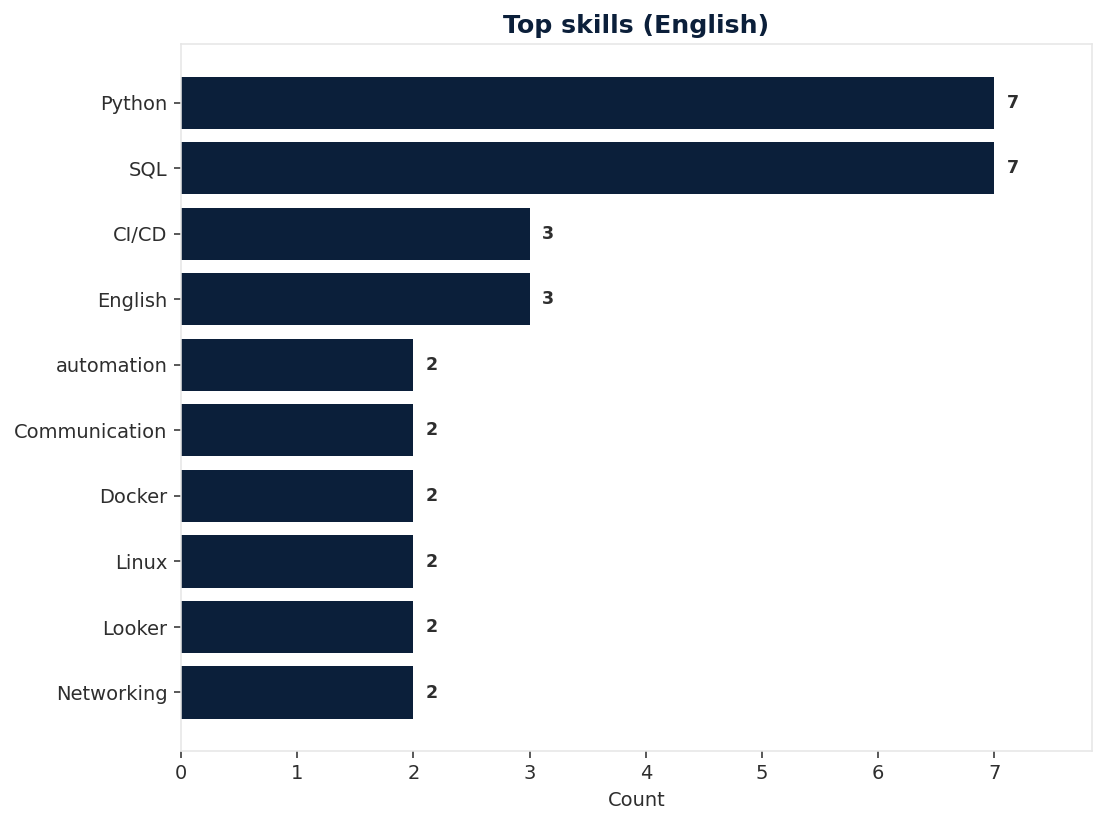
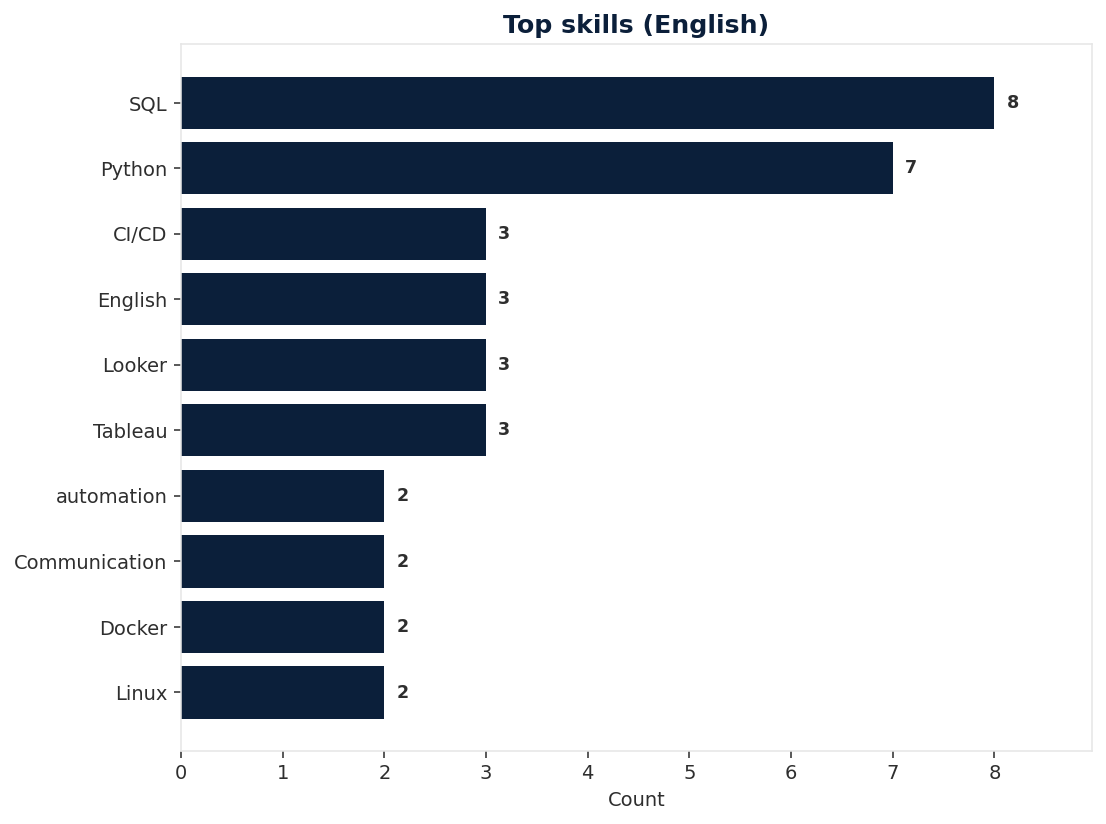
Updated analysis.

diff --git a/docs/prediction/model_results.md b/docs/prediction/model_results.md
@@ -2,14 +2,14 @@
 
 Auto-generated when you run **Prediction** in the web UI or CLI. Rows within each model are ordered by predicted value (highest first).
 
-- **Generated at:** 2026-07-27T23:55:00
-- **Run id:** 99
+- **Generated at:** 2026-07-28T02:06:44
+- **Run id:** 3
 - **Status:** completed
 - **Training data source:** Fake / synthetic series (`data/fake/` CSVs)
-- **Training window (months):** 12
+- **Training window (months):** 24
 - **Horizons:** 3
-- **Models:** baseline, rf
-- **Elapsed (seconds):** 1.531
+- **Models:** baseline, prophet, sarima, arima, rf, hgb
+- **Elapsed (seconds):** 1207.827
 
 ## Training data
 
@@ -19,37 +19,301 @@ Models were trained on generated job-market aggregates (not live PostgreSQL post
 
 | Model | Seconds |
 |-------|---------|
-| `baseline` | 0.023 |
-| `rf` | 1.428 |
+| `baseline` | 0.234 |
+| `prophet` | 1173.523 |
+| `sarima` | 8.264 |
+| `arima` | 4.046 |
+| `rf` | 13.549 |
+| `hgb` | 7.996 |
 
 ## Top roles & top skills (historical shortlist)
 
 These lists are **not** the models' forecast of future popularity. Before forecasting, roles and skills are ranked by **historical posting volume** inside the training window (highest count first); the top K (default 15) become the forecast targets. Every selected model then runs on that same shortlist. Order below = historical volume, not predicted rank.
 
-- **Top roles (historical):** Data Analyst, Data Engineer, ML Engineer
-- **Top skills (historical):** SQL, Python, AWS
+- **Top roles (historical):** Data Analyst, Data Engineer, Data Scientist, ML Engineer, Analytics Engineer, AI Engineer, BI Developer, MLOps Engineer, Research Scientist, Product Analyst, Backend Engineer, Platform Engineer, Data Platform Engineer, NLP Engineer, Computer Vision Engineer
+- **Top skills (historical):** Python, SQL, Spark, Airflow, dbt, Tableau, Power BI, AWS, GCP, Azure, Kubernetes, TensorFlow, Docker, PyTorch, scikit-learn
+
+## Model: `arima`
+
+| Type | Target | Horizon | Period | Value |
+|------|--------|---------|--------|-------|
+| salary_role | NLP Engineer | 3 | 2026-10-01 | 5684 |
+| salary_role | AI Engineer | 3 | 2026-10-01 | 5672 |
+| salary_role | Computer Vision Engineer | 3 | 2026-10-01 | 5543 |
+| salary_role | ML Engineer | 3 | 2026-10-01 | 5447 |
+| salary_role | MLOps Engineer | 3 | 2026-10-01 | 5373 |
+| salary_role | Data Platform Engineer | 3 | 2026-10-01 | 5320 |
+| salary_role | Data Scientist | 3 | 2026-10-01 | 5200 |
+| salary_role | Research Scientist | 3 | 2026-10-01 | 5164 |
+| salary_role | Platform Engineer | 3 | 2026-10-01 | 5018 |
+| salary_role | Backend Engineer | 3 | 2026-10-01 | 4839 |
+| salary_role | Data Engineer | 3 | 2026-10-01 | 4773 |
+| salary_role | Analytics Engineer | 3 | 2026-10-01 | 4393 |
+| salary_role | BI Developer | 3 | 2026-10-01 | 4107 |
+| salary_role | Product Analyst | 3 | 2026-10-01 | 4061 |
+| salary_role | Data Analyst | 3 | 2026-10-01 | 3862 |
+| skill | Spark | 3 | 2026-10-01 | 125.33 |
+| skill | dbt | 3 | 2026-10-01 | 118.56 |
+| skill | AWS | 3 | 2026-10-01 | 114.76 |
+| skill | Power BI | 3 | 2026-10-01 | 114.21 |
+| skill | Tableau | 3 | 2026-10-01 | 111.80 |
+| skill | SQL | 3 | 2026-10-01 | 111.20 |
+| skill | Python | 3 | 2026-10-01 | 111.19 |
+| skill | GCP | 3 | 2026-10-01 | 111.03 |
+| skill | Airflow | 3 | 2026-10-01 | 102.60 |
+| skill | Docker | 3 | 2026-10-01 | 98.95 |
+| skill | Azure | 3 | 2026-10-01 | 98.49 |
+| skill | Kubernetes | 3 | 2026-10-01 | 96.96 |
+| skill | scikit-learn | 3 | 2026-10-01 | 95.00 |
+| skill | TensorFlow | 3 | 2026-10-01 | 80.38 |
+| skill | PyTorch | 3 | 2026-10-01 | 59.87 |
+| role | Data Analyst | 3 | 2026-10-01 | 37.58 |
+| role | Data Engineer | 3 | 2026-10-01 | 32.58 |
+| role | Data Scientist | 3 | 2026-10-01 | 30.69 |
+| role | ML Engineer | 3 | 2026-10-01 | 25.36 |
+| role | Analytics Engineer | 3 | 2026-10-01 | 22.27 |
+| role | AI Engineer | 3 | 2026-10-01 | 20.39 |
+| role | BI Developer | 3 | 2026-10-01 | 19.31 |
+| role | MLOps Engineer | 3 | 2026-10-01 | 15.02 |
+| role | Research Scientist | 3 | 2026-10-01 | 13.59 |
+| role | Product Analyst | 3 | 2026-10-01 | 12.42 |
+| role | Backend Engineer | 3 | 2026-10-01 | 11.34 |
+| role | Platform Engineer | 3 | 2026-10-01 | 10.26 |
+| role | Data Platform Engineer | 3 | 2026-10-01 | 9.86 |
+| role | NLP Engineer | 3 | 2026-10-01 | 8.55 |
+| role | Computer Vision Engineer | 3 | 2026-10-01 | 6.74 |
 
 ## Model: `baseline`
 
 | Type | Target | Horizon | Period | Value |
 |------|--------|---------|--------|-------|
-| baseline_skill | Python | 0 | — | 5 |
-| baseline_skill | SQL | 0 | — | 4 |
-| baseline_skill | AWS | 0 | — | 2 |
-| baseline_role | Data Analyst | 0 | — | 1 |
-| baseline_role | Data Engineer | 0 | — | 1 |
-| baseline_role | ML Engineer | 0 | — | 1 |
+| baseline_skill | SQL | 0 | — | 118 |
+| baseline_skill | Spark | 0 | — | 110 |
+| baseline_skill | Airflow | 0 | — | 107 |
+| baseline_skill | dbt | 0 | — | 106 |
+| baseline_skill | Python | 0 | — | 103 |
+| baseline_skill | AWS | 0 | — | 95 |
+| baseline_skill | GCP | 0 | — | 95 |
+| baseline_skill | Tableau | 0 | — | 90 |
+| baseline_skill | Azure | 0 | — | 87 |
+| baseline_skill | Power BI | 0 | — | 87 |
+| baseline_skill | Docker | 0 | — | 81 |
+| baseline_skill | Kubernetes | 0 | — | 80 |
+| baseline_skill | TensorFlow | 0 | — | 74 |
+| baseline_skill | PyTorch | 0 | — | 71 |
+| baseline_skill | scikit-learn | 0 | — | 69 |
+| baseline_role | Data Engineer | 0 | — | 30 |
+| baseline_role | Data Scientist | 0 | — | 29 |
+| baseline_role | Data Analyst | 0 | — | 26 |
+| baseline_role | Backend Engineer | 0 | — | 20 |
+| baseline_role | ML Engineer | 0 | — | 17 |
+| baseline_role | BI Developer | 0 | — | 16 |
+| baseline_role | AI Engineer | 0 | — | 14 |
+| baseline_role | Analytics Engineer | 0 | — | 13 |
+| baseline_role | Research Scientist | 0 | — | 12 |
+| baseline_role | MLOps Engineer | 0 | — | 9 |
+| baseline_role | NLP Engineer | 0 | — | 8 |
+| baseline_role | Platform Engineer | 0 | — | 8 |
+| baseline_role | Data Platform Engineer | 0 | — | 7 |
+| baseline_role | Product Analyst | 0 | — | 7 |
+| baseline_role | Computer Vision Engineer | 0 | — | 4 |
+
+## Model: `hgb`
+
+| Type | Target | Horizon | Period | Value |
+|------|--------|---------|--------|-------|
+| salary_role | AI Engineer | 3 | 2026-10-01 | 5547 |
+| salary_role | Computer Vision Engineer | 3 | 2026-10-01 | 5475 |
+| salary_role | NLP Engineer | 3 | 2026-10-01 | 5409 |
+| salary_role | ML Engineer | 3 | 2026-10-01 | 5259 |
+| salary_role | MLOps Engineer | 3 | 2026-10-01 | 5213 |
+| salary_role | Data Platform Engineer | 3 | 2026-10-01 | 5126 |
+| salary_role | Research Scientist | 3 | 2026-10-01 | 5086 |
+| salary_role | Data Scientist | 3 | 2026-10-01 | 4992 |
+| salary_role | Platform Engineer | 3 | 2026-10-01 | 4833 |
+| salary_role | Backend Engineer | 3 | 2026-10-01 | 4763 |
+| salary_role | Data Engineer | 3 | 2026-10-01 | 4665 |
+| salary_role | Analytics Engineer | 3 | 2026-10-01 | 4435 |
+| salary_role | BI Developer | 3 | 2026-10-01 | 3971 |
+| salary_role | Product Analyst | 3 | 2026-10-01 | 3900 |
+| salary_role | Data Analyst | 3 | 2026-10-01 | 3750 |
+| skill | Python | 3 | 2026-10-01 | 135.83 |
+| skill | SQL | 3 | 2026-10-01 | 133.94 |
+| skill | Spark | 3 | 2026-10-01 | 129.44 |
+| skill | dbt | 3 | 2026-10-01 | 129.22 |
+| skill | Airflow | 3 | 2026-10-01 | 127.78 |
+| skill | Tableau | 3 | 2026-10-01 | 121.17 |
+| skill | Power BI | 3 | 2026-10-01 | 118.17 |
+| skill | AWS | 3 | 2026-10-01 | 117 |
+| skill | GCP | 3 | 2026-10-01 | 115.06 |
+| skill | Azure | 3 | 2026-10-01 | 112.50 |
+| skill | Kubernetes | 3 | 2026-10-01 | 109.83 |
+| skill | TensorFlow | 3 | 2026-10-01 | 106.11 |
+| skill | Docker | 3 | 2026-10-01 | 103.67 |
+| skill | PyTorch | 3 | 2026-10-01 | 101.06 |
+| skill | scikit-learn | 3 | 2026-10-01 | 97.06 |
+| role | Data Analyst | 3 | 2026-10-01 | 35.17 |
+| role | Data Engineer | 3 | 2026-10-01 | 33.56 |
+| role | Data Scientist | 3 | 2026-10-01 | 31.17 |
+| role | ML Engineer | 3 | 2026-10-01 | 25.50 |
+| role | Analytics Engineer | 3 | 2026-10-01 | 24.50 |
+| role | AI Engineer | 3 | 2026-10-01 | 21.11 |
+| role | BI Developer | 3 | 2026-10-01 | 20.06 |
+| role | MLOps Engineer | 3 | 2026-10-01 | 14.94 |
+| role | Product Analyst | 3 | 2026-10-01 | 13.72 |
+| role | Research Scientist | 3 | 2026-10-01 | 13.22 |
+| role | Backend Engineer | 3 | 2026-10-01 | 11.39 |
+| role | Platform Engineer | 3 | 2026-10-01 | 10.28 |
+| role | Data Platform Engineer | 3 | 2026-10-01 | 9.83 |
+| role | NLP Engineer | 3 | 2026-10-01 | 8.83 |
+| role | Computer Vision Engineer | 3 | 2026-10-01 | 8.17 |
+
+## Model: `prophet`
+
+| Type | Target | Horizon | Period | Value |
+|------|--------|---------|--------|-------|
+| salary_role | Platform Engineer | 3 | 2026-10-01 | 6022 |
+| salary_role | AI Engineer | 3 | 2026-10-01 | 5757 |
+| salary_role | MLOps Engineer | 3 | 2026-10-01 | 5739 |
+| salary_role | Computer Vision Engineer | 3 | 2026-10-01 | 5723 |
+| salary_role | NLP Engineer | 3 | 2026-10-01 | 5594 |
+| salary_role | ML Engineer | 3 | 2026-10-01 | 5370 |
+| salary_role | Data Platform Engineer | 3 | 2026-10-01 | 5346 |
+| salary_role | Research Scientist | 3 | 2026-10-01 | 5107 |
+| salary_role | Data Scientist | 3 | 2026-10-01 | 4961 |
+| salary_role | Data Engineer | 3 | 2026-10-01 | 4886 |
+| salary_role | Backend Engineer | 3 | 2026-10-01 | 4474 |
+| salary_role | BI Developer | 3 | 2026-10-01 | 4202 |
+| salary_role | Analytics Engineer | 3 | 2026-10-01 | 4181 |
+| salary_role | Data Analyst | 3 | 2026-10-01 | 3967 |
+| salary_role | Product Analyst | 3 | 2026-10-01 | 3901 |
+| skill | SQL | 3 | 2026-10-01 | 119.07 |
+| skill | Airflow | 3 | 2026-10-01 | 117.16 |
+| skill | GCP | 3 | 2026-10-01 | 107.60 |
+| skill | TensorFlow | 3 | 2026-10-01 | 104.03 |
+| skill | Azure | 3 | 2026-10-01 | 102.83 |
+| skill | Power BI | 3 | 2026-10-01 | 102.82 |
+| skill | Tableau | 3 | 2026-10-01 | 93.31 |
+| skill | dbt | 3 | 2026-10-01 | 90.55 |
+| skill | Python | 3 | 2026-10-01 | 86.27 |
+| skill | scikit-learn | 3 | 2026-10-01 | 85.25 |
+| skill | Spark | 3 | 2026-10-01 | 81.71 |
+| skill | PyTorch | 3 | 2026-10-01 | 79.20 |
+| skill | Kubernetes | 3 | 2026-10-01 | 76.33 |
+| skill | Docker | 3 | 2026-10-01 | 75.06 |
+| skill | AWS | 3 | 2026-10-01 | 63.36 |
+| role | ML Engineer | 3 | 2026-10-01 | 33.33 |
+| role | Data Scientist | 3 | 2026-10-01 | 32.65 |
+| role | Analytics Engineer | 3 | 2026-10-01 | 28.44 |
+| role | Data Analyst | 3 | 2026-10-01 | 24.27 |
+| role | AI Engineer | 3 | 2026-10-01 | 16.29 |
+| role | BI Developer | 3 | 2026-10-01 | 13.50 |
+| role | Data Platform Engineer | 3 | 2026-10-01 | 13.27 |
+| role | MLOps Engineer | 3 | 2026-10-01 | 10.65 |
+| role | NLP Engineer | 3 | 2026-10-01 | 10.63 |
+| role | Data Engineer | 3 | 2026-10-01 | 9.40 |
+| role | Platform Engineer | 3 | 2026-10-01 | 8.05 |
+| role | Research Scientist | 3 | 2026-10-01 | 6.29 |
+| role | Product Analyst | 3 | 2026-10-01 | 4.94 |
+| role | Backend Engineer | 3 | 2026-10-01 | 0 |
+| role | Computer Vision Engineer | 3 | 2026-10-01 | 0 |
 
 ## Model: `rf`
 
 | Type | Target | Horizon | Period | Value |
 |------|--------|---------|--------|-------|
-| salary_role | ML Engineer | 3 | 2026-10-01 | 5309 |
-| salary_role | Data Engineer | 3 | 2026-10-01 | 4463 |
-| salary_role | Data Analyst | 3 | 2026-09-01 | 3667 |
-| skill | SQL | 3 | 2026-10-01 | 5.92 |
-| skill | AWS | 3 | 2026-10-01 | 5.26 |
-| skill | Python | 3 | 2026-10-01 | 5.21 |
-| role | ML Engineer | 3 | 2026-10-01 | 2.25 |
-| role | Data Analyst | 3 | 2026-09-01 | 1.24 |
-| role | Data Engineer | 3 | 2026-10-01 | 0.80 |
+| salary_role | NLP Engineer | 3 | 2026-10-01 | 5718 |
+| salary_role | AI Engineer | 3 | 2026-10-01 | 5670 |
+| salary_role | Computer Vision Engineer | 3 | 2026-10-01 | 5633 |
+| salary_role | ML Engineer | 3 | 2026-10-01 | 5435 |
+| salary_role | MLOps Engineer | 3 | 2026-10-01 | 5397 |
+| salary_role | Research Scientist | 3 | 2026-10-01 | 5181 |
+| salary_role | Data Platform Engineer | 3 | 2026-10-01 | 5150 |
+| salary_role | Data Scientist | 3 | 2026-10-01 | 5148 |
+| salary_role | Backend Engineer | 3 | 2026-10-01 | 4840 |
+| salary_role | Platform Engineer | 3 | 2026-10-01 | 4817 |
+| salary_role | Data Engineer | 3 | 2026-10-01 | 4775 |
+| salary_role | Analytics Engineer | 3 | 2026-10-01 | 4460 |
+| salary_role | BI Developer | 3 | 2026-10-01 | 4081 |
+| salary_role | Product Analyst | 3 | 2026-10-01 | 4061 |
+| salary_role | Data Analyst | 3 | 2026-10-01 | 3775 |
+| skill | Python | 3 | 2026-10-01 | 113.06 |
+| skill | Tableau | 3 | 2026-10-01 | 110.55 |
+| skill | dbt | 3 | 2026-10-01 | 109.50 |
+| skill | Spark | 3 | 2026-10-01 | 109.33 |
+| skill | Power BI | 3 | 2026-10-01 | 108.10 |
+| skill | SQL | 3 | 2026-10-01 | 105.53 |
+| skill | Airflow | 3 | 2026-10-01 | 102.91 |
+| skill | GCP | 3 | 2026-10-01 | 101.38 |
+| skill | AWS | 3 | 2026-10-01 | 98.62 |
+| skill | TensorFlow | 3 | 2026-10-01 | 95.92 |
+| skill | Azure | 3 | 2026-10-01 | 95.62 |
+| skill | Docker | 3 | 2026-10-01 | 90.94 |
+| skill | PyTorch | 3 | 2026-10-01 | 84.81 |
+| skill | Kubernetes | 3 | 2026-10-01 | 82.64 |
+| skill | scikit-learn | 3 | 2026-10-01 | 77.88 |
+| role | Data Scientist | 3 | 2026-10-01 | 31.52 |
+| role | Data Analyst | 3 | 2026-10-01 | 29.73 |
+| role | Data Engineer | 3 | 2026-10-01 | 25.20 |
+| role | Analytics Engineer | 3 | 2026-10-01 | 24.32 |
+| role | BI Developer | 3 | 2026-10-01 | 20.90 |
+| role | AI Engineer | 3 | 2026-10-01 | 19.42 |
+| role | ML Engineer | 3 | 2026-10-01 | 18.39 |
+| role | Research Scientist | 3 | 2026-10-01 | 14.29 |
+| role | MLOps Engineer | 3 | 2026-10-01 | 13.11 |
+| role | Backend Engineer | 3 | 2026-10-01 | 12.85 |
+| role | Platform Engineer | 3 | 2026-10-01 | 11.14 |
+| role | Product Analyst | 3 | 2026-10-01 | 9.40 |
+| role | Data Platform Engineer | 3 | 2026-10-01 | 9.19 |
+| role | Computer Vision Engineer | 3 | 2026-10-01 | 7.20 |
+| role | NLP Engineer | 3 | 2026-10-01 | 6.34 |
+
+## Model: `sarima`
+
+| Type | Target | Horizon | Period | Value |
+|------|--------|---------|--------|-------|
+| salary_role | AI Engineer | 3 | 2026-10-01 | 5629 |
+| salary_role | NLP Engineer | 3 | 2026-10-01 | 5627 |
+| salary_role | Computer Vision Engineer | 3 | 2026-10-01 | 5504 |
+| salary_role | MLOps Engineer | 3 | 2026-10-01 | 5415 |
+| salary_role | ML Engineer | 3 | 2026-10-01 | 5408 |
+| salary_role | Data Platform Engineer | 3 | 2026-10-01 | 5346 |
+| salary_role | Platform Engineer | 3 | 2026-10-01 | 5198 |
+| salary_role | Data Scientist | 3 | 2026-10-01 | 5195 |
+| salary_role | Research Scientist | 3 | 2026-10-01 | 5143 |
+| salary_role | Backend Engineer | 3 | 2026-10-01 | 4833 |
+| salary_role | Data Engineer | 3 | 2026-10-01 | 4807 |
+| salary_role | Analytics Engineer | 3 | 2026-10-01 | 4387 |
+| salary_role | BI Developer | 3 | 2026-10-01 | 4095 |
+| salary_role | Product Analyst | 3 | 2026-10-01 | 4062 |
+| salary_role | Data Analyst | 3 | 2026-10-01 | 3885 |
+| skill | dbt | 3 | 2026-10-01 | 125.87 |
+| skill | Spark | 3 | 2026-10-01 | 115.90 |
+| skill | AWS | 3 | 2026-10-01 | 113.83 |
+| skill | Power BI | 3 | 2026-10-01 | 109.63 |
+| skill | SQL | 3 | 2026-10-01 | 108.13 |
+| skill | Tableau | 3 | 2026-10-01 | 99.67 |
+| skill | Airflow | 3 | 2026-10-01 | 99.32 |
+| skill | Kubernetes | 3 | 2026-10-01 | 98.14 |
+| skill | Azure | 3 | 2026-10-01 | 98.06 |
+| skill | GCP | 3 | 2026-10-01 | 93.95 |
+| skill | Docker | 3 | 2026-10-01 | 93.67 |
+| skill | scikit-learn | 3 | 2026-10-01 | 79.94 |
+| skill | Python | 3 | 2026-10-01 | 69.75 |
+| skill | TensorFlow | 3 | 2026-10-01 | 64.80 |
+| skill | PyTorch | 3 | 2026-10-01 | 64.03 |
+| role | Data Analyst | 3 | 2026-10-01 | 35.28 |
+| role | Data Scientist | 3 | 2026-10-01 | 30.25 |
+| role | ML Engineer | 3 | 2026-10-01 | 27.98 |
+| role | Backend Engineer | 3 | 2026-10-01 | 19.82 |
+| role | Analytics Engineer | 3 | 2026-10-01 | 19.81 |
+| role | BI Developer | 3 | 2026-10-01 | 19.49 |
+| role | AI Engineer | 3 | 2026-10-01 | 19.46 |
+| role | Data Engineer | 3 | 2026-10-01 | 18.39 |
+| role | Research Scientist | 3 | 2026-10-01 | 12.71 |
+| role | Product Analyst | 3 | 2026-10-01 | 12.41 |
+| role | MLOps Engineer | 3 | 2026-10-01 | 12.08 |
+| role | Data Platform Engineer | 3 | 2026-10-01 | 10.78 |
+| role | NLP Engineer | 3 | 2026-10-01 | 9.87 |
+| role | Platform Engineer | 3 | 2026-10-01 | 9.37 |
+| role | Computer Vision Engineer | 3 | 2026-10-01 | 8.52 |
